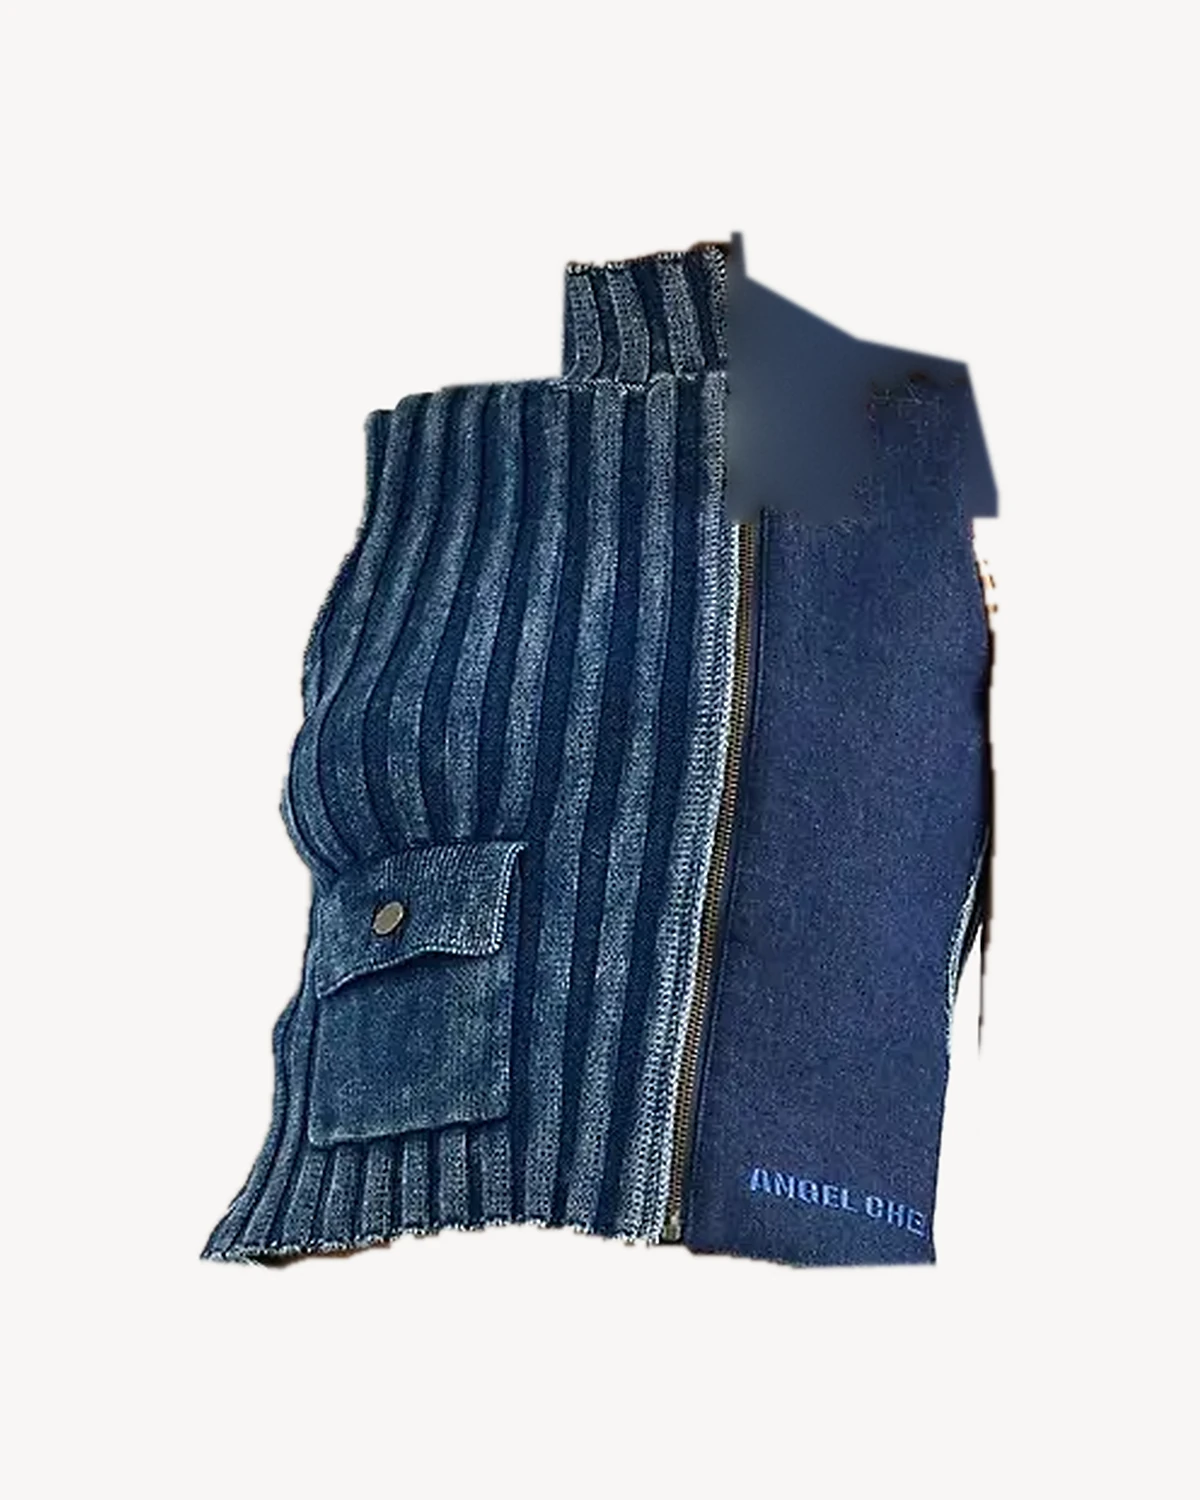
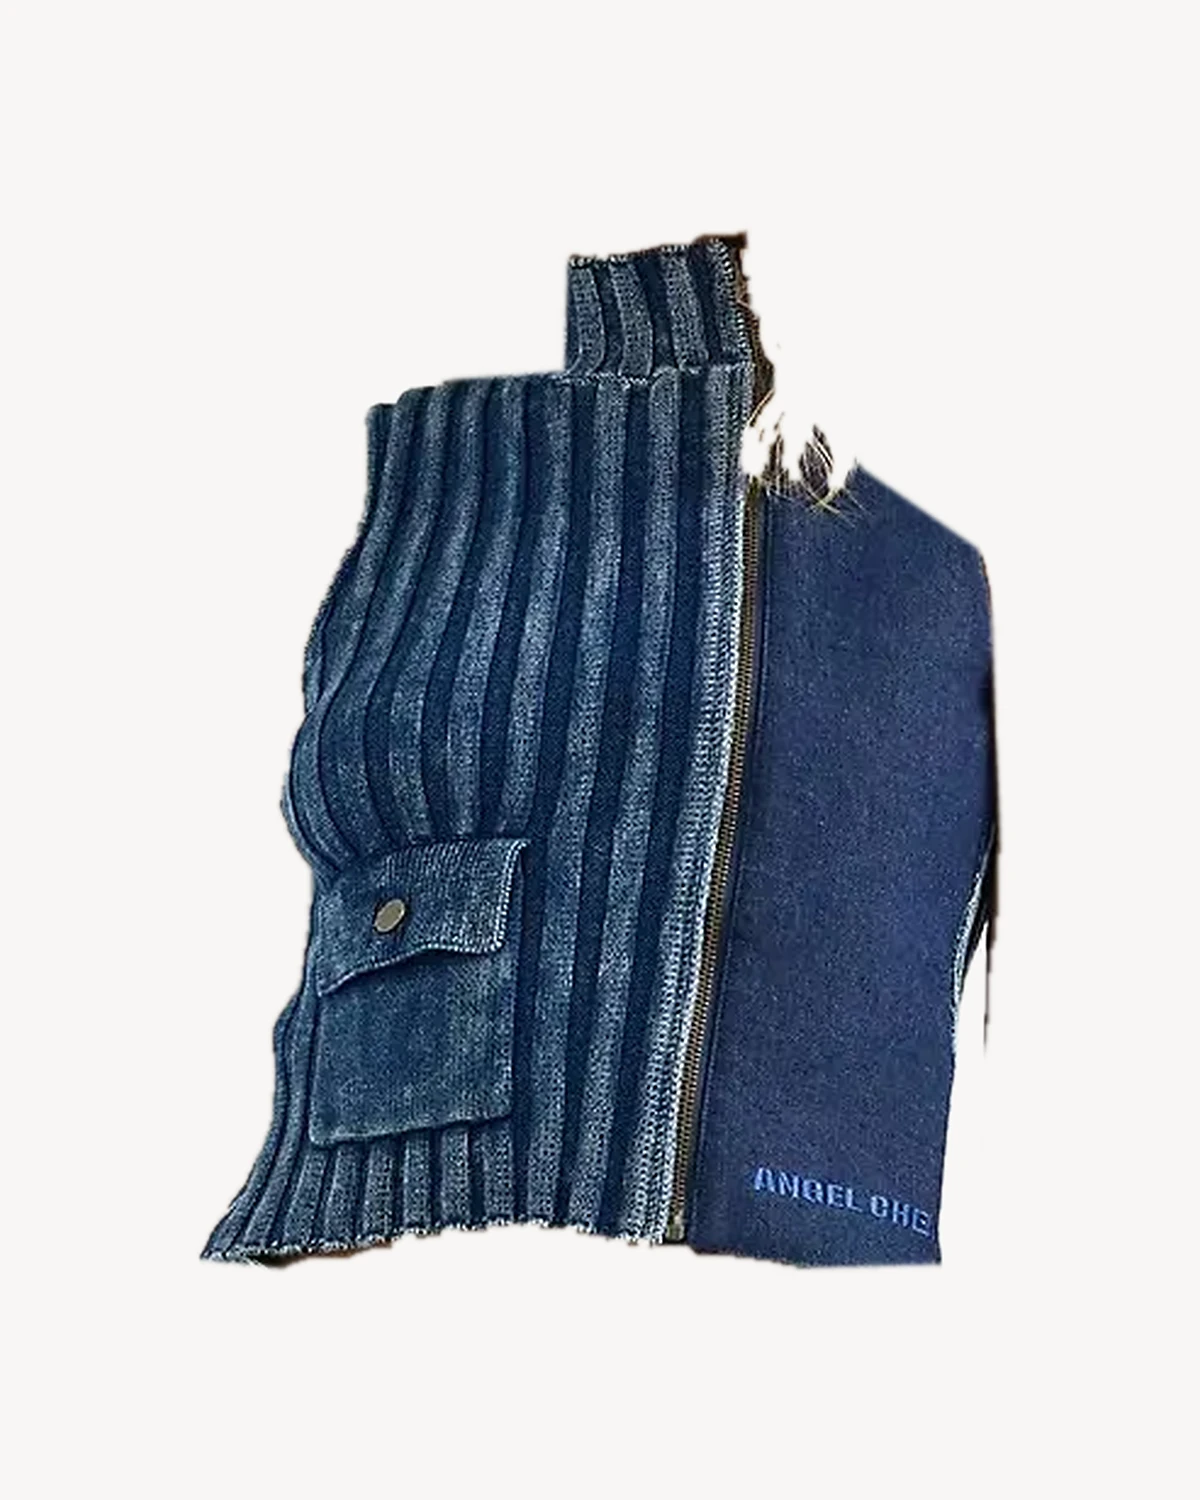
git added

Changed region(s): [[0.2158, 0.1533, 0.8325, 0.8587], [0.74, 0.46, 0.7708, 0.4907]]

diff --git a/products/denim.html b/products/denim.html
@@ -59,7 +59,9 @@
   .logo:hover .wm .thread path{animation:sew 1.2s linear infinite}
   @keyframes sew{to{stroke-dashoffset:-15}}
   .wm sup{font-family:var(--body);font-size:9px;font-weight:600;letter-spacing:.14em;align-self:flex-start;margin:2px 0 0 12px;opacity:.75}
-  #hdr{position:fixed;top:0;left:0;right:0;z-index:50;background:rgba(251,252,248,.92);-webkit-backdrop-filter:blur(16px) saturate(1.4);backdrop-filter:blur(16px) saturate(1.4);border-bottom:1px solid var(--border)}
+  #hdr{position:fixed;top:0;left:0;right:0;z-index:50;background:rgba(251,252,248,.92);-webkit-backdrop-filter:blur(16px) saturate(1.4);backdrop-filter:blur(16px) saturate(1.4);border-bottom:1px solid var(--border);transition:transform .38s var(--ease)}
+  /* Hide the bar while scrolling down, slide it back as soon as the page scrolls up */
+  #hdr.is-hidden{transform:translateY(-101%)}
   .nav{height:var(--hdr);display:flex;align-items:center;justify-content:space-between;gap:24px}
   .nav ul{display:flex;gap:4px;list-style:none}
   .nav ul a{position:relative;display:block;padding:10px 16px;font-size:15px;font-weight:500;color:var(--green-800);transition:color .25s}
@@ -71,7 +73,7 @@
   .mnav{display:none}
 
   /* Product: a two-column gallery; the calculator takes the cell beside the hero */
-  .pdp{display:grid;grid-template-columns:repeat(2,minmax(0,1fr));gap:2px;margin:var(--hdr) 0 0;background:#fff}
+  .pdp{display:grid;grid-template-columns:repeat(2,minmax(0,1fr));gap:2px;margin:0;background:#fff}
   .shot{position:relative;aspect-ratio:4/5;margin:0;overflow:hidden;background:var(--studio);cursor:zoom-in}
   .shot img,.shot video{display:block;width:100%;height:100%;object-fit:cover;transition:transform 1.2s var(--ease)}
   .shot:hover img{transform:scale(1.03)}
@@ -103,13 +105,29 @@
   .from b{font-size:17px;font-weight:600;color:var(--ink);font-variant-numeric:tabular-nums}
   .step{margin-top:24px}
   /* Style picker: one thumbnail per variant; picking one swaps the whole gallery */
-  .styles{display:flex;gap:8px}
-  .sty{position:relative;width:64px;aspect-ratio:4/5;overflow:hidden;background:var(--studio);outline:1px solid transparent;outline-offset:3px;transition:outline-color .2s}
-  .sty img{width:100%;height:100%;object-fit:cover;object-position:50% 20%;transition:transform .5s var(--ease)}
-  .sty:hover img{transform:scale(1.06)}
-  .sty:hover{outline-color:#B8B8B3}
-  .sty[aria-checked="true"]{outline-color:var(--ink)}
-  .sty:focus-visible{outline:2px solid var(--green-600)}
+  /* Style bar: right under the site header, stays in view; picking a style swaps the whole page */
+  /* Style tabs: a quiet strip under the header, as on European fashion sites. Each style is a small portrait and
+     a name; the active one is ink with an underline. It scrolls sideways when there are many styles. */
+  .stylebar{position:sticky;top:var(--hdr);z-index:40;margin-top:var(--hdr);background:rgba(255,255,255,.96);-webkit-backdrop-filter:blur(14px);backdrop-filter:blur(14px);border-bottom:1px solid var(--line);transition:top .38s var(--ease),transform .38s var(--ease)}
+  /* Both bars tuck away together while scrolling down, then return on scroll up */
+  #hdr.is-hidden + .stylebar{top:0;transform:translateY(-101%)}
+  .stylebar-in{display:flex;align-items:stretch;height:60px;padding:0 32px}
+  .styles{flex:1;min-width:0;display:flex;overflow-x:auto;scroll-behavior:smooth;scrollbar-width:none}
+  .styles::-webkit-scrollbar{display:none}
+  .sty{position:relative;flex:none;display:flex;align-items:center;gap:10px;padding:0 20px;font-size:13px;font-weight:500;color:#8A8A85;white-space:nowrap;transition:color .2s}
+  .sty .ph{flex:none;width:30px;height:30px;border-radius:50%;overflow:hidden;background:var(--studio);box-shadow:0 0 0 1px var(--line);transition:box-shadow .2s}
+  .sty img{width:100%;height:100%;object-fit:cover;object-position:50% 15%}
+  .sty::after{content:"";position:absolute;left:20px;right:20px;bottom:-1px;height:2px;background:var(--ink);transform:scaleX(0);transition:transform .35s var(--ease)}
+  .sty:hover{color:var(--ink)}
+  .sty[aria-checked="true"]{color:var(--ink)}
+  .sty[aria-checked="true"] .ph{box-shadow:0 0 0 1.5px var(--ink)}
+  .sty[aria-checked="true"]::after{transform:scaleX(1)}
+  .sty:focus-visible{outline:2px solid var(--green-600);outline-offset:-4px}
+  .sb-nav{flex:none;display:none;align-items:center;gap:4px;padding-left:12px}
+  .stylebar.overflow .sb-nav{display:flex}
+  .sb-nav button{display:grid;place-items:center;width:30px;height:30px;border:1px solid var(--line);border-radius:50%;color:var(--ink);transition:border-color .2s}
+  .sb-nav button:hover{border-color:var(--ink)}
+  .sb-nav svg{width:14px;height:14px}
   /* Gallery swap: images fade out, change, fade back in */
   .pdp .shot img,.pdp .shot video{transition:transform 1.2s var(--ease),opacity .35s}
   .pdp.swapping .shot:not(.fabric) img,.pdp.swapping .shot video{opacity:0}
@@ -212,6 +230,11 @@
   }
   /* Phone: the two-column grid stacks; images full-bleed, calculator inset */
   @media (max-width:760px){
+    .stylebar-in{height:52px;padding:0 4px}
+    .sty{padding:0 12px}
+    .stylebar.overflow .sb-nav{display:none}
+    .stylebar.overflow .styles{-webkit-mask-image:linear-gradient(90deg,#000 85%,transparent);mask-image:linear-gradient(90deg,#000 85%,transparent)}
+    .sty::after{left:12px;right:12px}
     :root{--hdr:72px}
     .wrap{padding:0 16px}
     .mnav.open{padding:8px 16px 24px}
@@ -256,6 +279,13 @@
   </nav>
 </header>
 
+<nav class="stylebar" aria-label="Styles">
+  <div class="stylebar-in">
+    <div class="styles" id="styles" role="radiogroup" aria-label="Style"></div>
+    <div class="sb-nav"><button type="button" id="sbPrev" aria-label="Scroll styles left"><svg viewBox="0 0 24 24" fill="none" stroke="currentColor" stroke-width="1.6"><path d="M15 5l-7 7 7 7"/></svg></button><button type="button" id="sbNext" aria-label="Scroll styles right"><svg viewBox="0 0 24 24" fill="none" stroke="currentColor" stroke-width="1.6"><path d="M9 5l7 7-7 7"/></svg></button></div>
+  </div>
+</nav>
+
 <main class="pdp" id="gallery">
   <figure data-slot="full" class="shot full" data-i="0"><img src="denim/model.webp" alt="Model wearing the vintage-wash denim jacket and straight jeans, full length"></figure>
   <figure data-slot="product" class="shot product" data-i="1"><img src="denim/product.webp" alt="Product shot: the vintage-wash denim jacket, front, with stand collar and scalloped button placket"></figure>
@@ -267,11 +297,6 @@
         <p class="kicker">Denim · Made to order</p>
         <h1 id="name">Vintage-wash denim jacket &amp; straight jeans</h1>
         <p class="from">From <b id="fromPrice"></b> / set · excl. VAT</p>
-
-        <div class="step">
-          <div class="step-h">Style <span id="styleName"></span></div>
-          <div class="styles" id="styles" role="radiogroup" aria-label="Style"></div>
-        </div>
 
         <form id="calcForm" novalidate>
           <div class="step">
@@ -440,6 +465,16 @@
   $('burger').onclick = () => setMenu(!$('mnav').classList.contains('open'));
   document.querySelectorAll('#mnav a').forEach(a => a.onclick = () => setMenu(false));
 
+  // Site bar: hide on scroll down, reveal on scroll up; always visible near the top or with the menu open
+  let lastY = Math.max(0, scrollY);
+  addEventListener('scroll', () => {
+    const y = Math.max(0, scrollY), dy = y - lastY;
+    if (Math.abs(dy) < 6) return;                       // ignore trackpad jitter
+    if (y < 90 || dy < 0 || hdr.classList.contains('open')) hdr.classList.remove('is-hidden');
+    else hdr.classList.add('is-hidden');
+    lastY = y;
+  }, {passive: true});
+
   $('dest').innerHTML = DENIM.countries.map(c => `<option value="${c.id}">${c.name}</option>`).join('');
   $('dest').value = 'de';
   let ship = 'sea';
@@ -557,9 +592,12 @@
 
   // Style picker: swap every gallery image, the name and the prices; the images fade out and back in together
   const gallery = $('gallery'), filmFig = document.querySelector('[data-slot="film"]');
-  let V = DENIM.variants[0];
-  $('styles').innerHTML = DENIM.variants.map(v =>
-    `<button type="button" class="sty" role="radio" data-variant="${v.id}" aria-label="${v.label}" aria-checked="false"><img src="${v.thumb}" alt=""></button>`).join('');
+  let V = DENIM.variants[0], activeTab = 0;
+  // Placeholder fill: the real styles are repeated so the bar can be judged with many styles. Set to 1 to show each once.
+  const REPEAT = 4;
+  const tabs = Array.from({length: DENIM.variants.length * REPEAT}, (_, i) => DENIM.variants[i % DENIM.variants.length]);
+  $('styles').innerHTML = tabs.map((v, i) =>
+    `<button type="button" class="sty" role="radio" data-variant="${v.id}" data-tab="${i}" aria-checked="false" tabindex="-1"><span class="ph"><img src="${v.thumb}" alt=""></span>${v.label}</button>`).join('');
   function useVariant(id, animate) {
     const v = DENIM.variants.find(x => x.id === id) || DENIM.variants[0];
     const apply = () => {
@@ -578,9 +616,13 @@
       else video.pause();
       $('name').textContent = v.name;
       document.title = `${v.name} | Struggle Style`;
-      $('styleName').textContent = v.label;
       $('qtyUnit').textContent = `sets · ${Object.keys(v.parts).join(' + ')}`;
-      document.querySelectorAll('[data-variant]').forEach(b => b.setAttribute('aria-checked', b.dataset.variant === v.id));
+      document.querySelectorAll('[data-variant]').forEach(b => {
+        const on = +b.dataset.tab === activeTab;
+        b.setAttribute('aria-checked', on);
+        b.tabIndex = on ? 0 : -1;
+        if (on) b.scrollIntoView({block: 'nearest', inline: 'nearest'});
+      });
       price();
       gallery.classList.remove('swapping');
     };
@@ -591,10 +633,27 @@
   const reduce = matchMedia('(prefers-reduced-motion: reduce)').matches;
   $('styles').addEventListener('click', e => {
     const b = e.target.closest('[data-variant]');
-    if (!b || b.dataset.variant === V.id) return;
+    if (!b || +b.dataset.tab === activeTab) return;
+    activeTab = +b.dataset.tab;
     history.replaceState(null, '', `#${b.dataset.variant}`);
-    useVariant(b.dataset.variant, true);
+    useVariant(b.dataset.variant, b.dataset.variant !== V.id);
   });
+  // Arrow keys move between styles (radio group); the side arrows scroll when the styles don't fit
+  $('styles').addEventListener('keydown', e => {
+    if (!['ArrowLeft', 'ArrowRight', 'Home', 'End'].includes(e.key)) return;
+    e.preventDefault();
+    const tabs = [...document.querySelectorAll('[data-variant]')], i = tabs.indexOf(document.activeElement);
+    const to = e.key === 'Home' ? 0 : e.key === 'End' ? tabs.length - 1 : (i + (e.key === 'ArrowRight' ? 1 : -1) + tabs.length) % tabs.length;
+    tabs[to].focus();
+    tabs[to].click();
+  });
+  const bar = document.querySelector('.stylebar'), strip = $('styles');
+  const fit = () => bar.classList.toggle('overflow', strip.scrollWidth > strip.clientWidth + 2);
+  addEventListener('resize', fit);
+  fit();
+  $('sbPrev').onclick = () => { strip.scrollLeft -= strip.clientWidth * .7; };
+  $('sbNext').onclick = () => { strip.scrollLeft += strip.clientWidth * .7; };
+
   // Warm the other variants' images so the swap is instant
   addEventListener('load', () => DENIM.variants.forEach(v => Object.values(v.shots).forEach(([src]) => { new Image().src = src; })));
 
@@ -605,6 +664,7 @@
     lookVideo.pause();
   }
 
+  activeTab = Math.max(0, DENIM.variants.findIndex(v => v.id === location.hash.slice(1)));
   useVariant(location.hash.slice(1));
 })();
 </script>

diff --git a/products/denim/skirt/make_images.py b/products/denim/skirt/make_images.py
@@ -19,17 +19,19 @@ CROPS = {
 }
 
 # The vest for the product shot: outline in photo pixels; inside it, denim blue is kept and arms, hair and wall dropped
-VEST = [(680, 310), (752, 312), (754, 330), (800, 356), (845, 366), (858, 420), (858, 600), (850, 650), (843, 738),
+VEST = [(680, 310), (752, 312), (754, 358), (800, 428), (852, 458), (858, 600), (850, 650), (843, 738),
         (700, 742), (560, 740), (527, 736), (527, 690), (540, 620), (555, 560), (565, 500), (570, 450), (585, 410),
         (600, 378), (678, 372)]
 BG, SIZE, FILL, SS = (248, 247, 245), (1200, 1500), .7, 4
-HAIR = (748, 300, 862, 430)  # blond hair over the right yoke: anything not denim here is repainted from the denim around
+# Hair covers the right yoke, so the outline cuts below it on a clean diagonal; nothing is repainted
+HAIR = (0, 0, 0, 0)
 
 
 def denim(r, g, b):
     h, s, _ = colorsys.rgb_to_hsv(r / 255, g / 255, b / 255)
     lum = .299 * r + .587 * g + .114 * b
-    return (.5 < h < .72 and s > .12) or lum < 55
+    hair = h < .16 and s > .2
+    return (.5 < h < .72 and s > .12) or (lum < 45 and not hair)
 
 
 def fill_holes(m):
